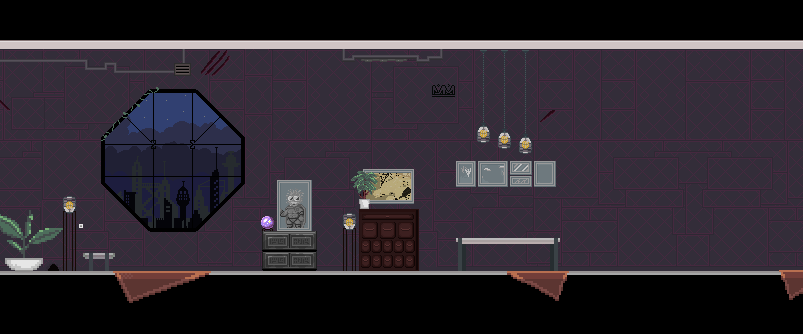
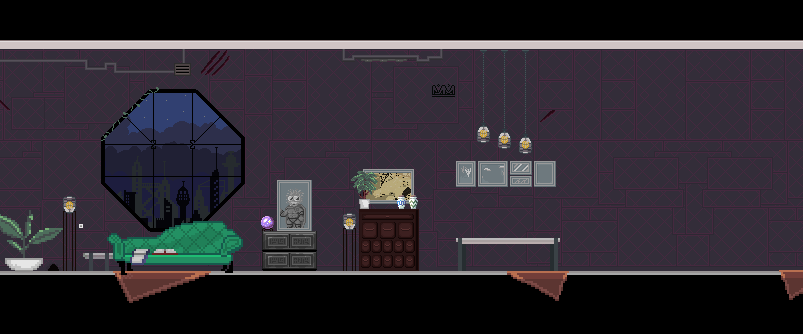
add new cybercracks and cat mask

Changed region(s): [[0.1245, 0.6587, 0.3113, 0.8084], [0.4981, 0.5689, 0.5293, 0.6287]]

diff --git a/game/scenes/BootScene.ts b/game/scenes/BootScene.ts
@@ -26,7 +26,8 @@ const elements = [
   'staff',
   'sofa',
   'neon',
-  'jellydonut'
+  'jellydonut',
+  'catmask'
 ]
 
 const steps: any = {
@@ -136,6 +137,7 @@ export class BootScene extends Phaser.Scene {
   sofa: any;
   neon: any;
   jellydonut: any;
+  catmask: any;
 
   summonText: any;
   textbox: any;
